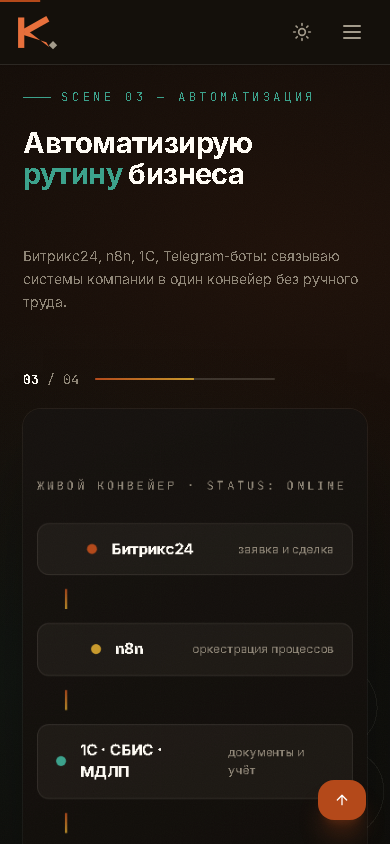
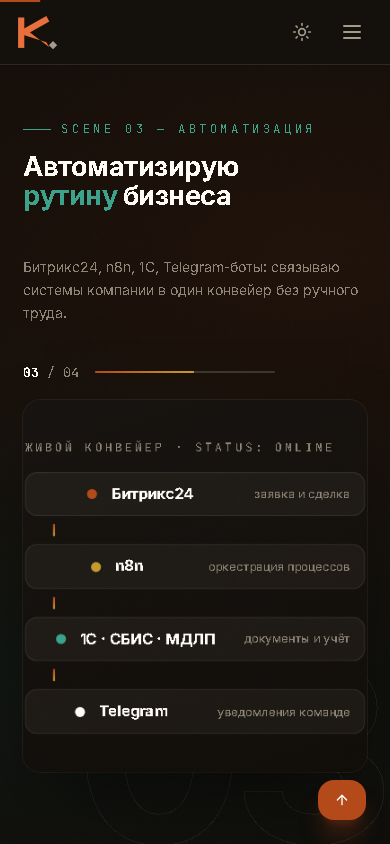
fix: dark-theme contrast, particle quiet zone, mobile stage centering

diff --git a/src/components/sections/ScrollScenes.vue b/src/components/sections/ScrollScenes.vue
@@ -294,6 +294,8 @@ tg.<span class="c-fn">notify</span>(<span class="c-str">`✔ договор по
   position: sticky;
   top: 0;
   height: 100vh;
+  /* На мобильных 100vh больше видимой области (панели браузера) — dvh точнее */
+  height: 100dvh;
   overflow: hidden;
   background:
     radial-gradient(1200px 700px at 78% 30%, rgba(180, 73, 26, 0.1), transparent 60%),
@@ -610,17 +612,56 @@ tg.<span class="c-fn">notify</span>(<span class="c-str">`✔ договор по
   }
   .stage {
     grid-template-columns: 1fr;
-    grid-template-rows: auto 1fr;
-    gap: 20px;
-    padding: 88px 6vw 40px;
-    align-content: start;
+    /* Две авто-строки, весь блок центрирован по вертикали — без «прилипло
+       кверху, снизу обрезало»; высота stage = 100dvh (см. базовый .stage) */
+    grid-template-rows: auto auto;
+    gap: 18px;
+    padding: 72px 6vw 24px;
+    align-content: center;
+  }
+  .kicker {
+    margin-bottom: 14px;
   }
   .headline {
-    font-size: clamp(26px, 7.4vw, 34px);
+    font-size: clamp(24px, 6.8vw, 32px);
   }
   .sub {
     font-size: 14px;
-    height: 6.4em;
+    height: 6em;
+    margin-top: 12px;
+  }
+  .progress {
+    margin-top: 24px;
+  }
+  .frames {
+    height: min(44vh, 420px);
+    height: min(44dvh, 420px);
+  }
+  /* Карточки внутри кадра компактнее — 4 узла/стата должны целиком
+     помещаться в кадр даже на низком вьюпорте (~700px высотой) */
+  .flow-card {
+    padding: 22px;
+    gap: 8px;
+  }
+  .flow-title {
+    margin-bottom: 8px;
+  }
+  .node {
+    padding: 10px 14px;
+  }
+  .wire {
+    height: 12px;
+  }
+  .stats-card {
+    padding: 24px;
+    gap: 8px;
+  }
+  .stat {
+    padding: 12px 0;
+  }
+  .code-card {
+    padding: 18px;
+    font-size: 11.5px;
   }
   .bignum {
     font-size: 30vh;

diff --git a/src/components/common/ParticleField.vue b/src/components/common/ParticleField.vue
@@ -125,10 +125,10 @@ async function init(canvasEl: HTMLCanvasElement) {
   geometry.setAttribute('color', new THREE.BufferAttribute(colors, 3))
 
   const material: PointsMaterial = new THREE.PointsMaterial({
-    size: isMobile ? 0.06 : 0.085,
+    size: isMobile ? 0.05 : 0.07,
     vertexColors: true,
     transparent: true,
-    opacity: 0.85,
+    opacity: 0.45,
     depthWrite: false,
     blending: THREE.AdditiveBlending,
     sizeAttenuation: true,
@@ -257,7 +257,7 @@ onBeforeUnmount(() => {
 <template>
   <canvas
     ref="canvas"
-    class="pointer-events-none absolute inset-0 h-full w-full transition-opacity duration-700"
+    class="pointer-events-none absolute inset-0 h-full w-full transition-opacity duration-700 [-webkit-mask-image:radial-gradient(ellipse_82%_74%_at_32%_55%,transparent_42%,black_88%)] [mask-image:radial-gradient(ellipse_82%_74%_at_32%_55%,transparent_42%,black_88%)]"
     :class="isActive ? 'opacity-100' : 'opacity-0'"
     aria-hidden="true"
   />

diff --git a/src/components/sections/Hero.vue b/src/components/sections/Hero.vue
@@ -211,7 +211,7 @@ function scrollToContact() {
       >
         <div class="max-w-[420px]">
           <p
-            class="animate-fade-in-up text-sm leading-relaxed text-ink-100 [animation-delay:750ms] dark:text-ink-400 sm:text-base"
+            class="animate-fade-in-up text-sm leading-relaxed text-ink-100 [animation-delay:750ms] dark:text-ink-300 sm:text-base"
           >
             {{ person.tagline }}
           </p>

diff --git a/src/components/common/SectionTitle.vue b/src/components/common/SectionTitle.vue
@@ -32,7 +32,7 @@ const { target } = useScrollAnimation<HTMLDivElement>()
     </h2>
     <p
       v-if="subtitle"
-      class="mx-auto mt-4 max-w-2xl text-base text-ink-100 dark:text-ink-400 sm:text-lg"
+      class="mx-auto mt-4 max-w-2xl text-base text-ink-100 dark:text-ink-300 sm:text-lg"
     >
       {{ subtitle }}
     </p>

diff --git a/tailwind.config.js b/tailwind.config.js
@@ -22,6 +22,7 @@ export default {
         ink: {
           50: '#6E6656',
           100: '#6E6656',
+          300: '#C4B9A4',
           400: '#8F8677',
           500: '#6E6656',
           700: '#4A443B',

diff --git a/_verify_scroll_scenes.py b/_verify_scroll_scenes.py
@@ -98,6 +98,26 @@ def check_active_frame(page, tag: str) -> None:
         FAILURES.append(f"{tag}: {st}")
 
 
+def check_stage_fits(page, tag: str) -> None:
+    """Мобильный багфикс: зафиксированный stage целиком во вьюпорте (без обрезки снизу)."""
+    st = page.evaluate(
+        """() => {
+            const stage = document.querySelector('.stories .stage');
+            const frames = document.querySelector('.stories .frames');
+            const sr = stage.getBoundingClientRect();
+            const fr = frames.getBoundingClientRect();
+            return { vh: window.innerHeight, stageH: Math.round(sr.height),
+                     stageTop: Math.round(sr.top), framesBottom: Math.round(fr.bottom),
+                     dvh: CSS.supports('height: 100dvh') };
+        }"""
+    )
+    ok = st["stageH"] <= st["vh"] and st["framesBottom"] <= st["vh"]
+    status = "OK " if ok else "FAIL"
+    print(f"  [{status}] {tag} stage-fits: {st}")
+    if not ok:
+        FAILURES.append(f"{tag} stage-fits: {st}")
+
+
 def run(page, prefix: str) -> None:
     geo = stories_geo(page)
     print(f"{prefix} stories:", geo)
@@ -106,6 +126,7 @@ def run(page, prefix: str) -> None:
         scroll_to_scene(page, geo, prog)
         page.screenshot(path=str(SHOTS / f"{prefix}-{name}.png"))
         check_active_frame(page, f"{prefix}-{name}")
+        check_stage_fits(page, f"{prefix}-{name}")
     # --- реверс вверх: сцены 3→2→1 ---
     for name, prog in [("scene3-back", 0.55), ("scene2-back", 0.30), ("scene1-back", 0.04)]:
         scroll_to_scene(page, geo, prog)
@@ -133,16 +154,36 @@ def main() -> int:
         print("dev-сервер поднят")
         with sync_playwright() as p:
             browser = p.chromium.launch()
+            # --- десктоп: hero в обеих темах (контраст текста + частицы) ---
             page = browser.new_page(viewport={"width": 1440, "height": 900})
             page.goto(BASE, wait_until="networkidle")
-            page.wait_for_timeout(2500)
+            page.evaluate("document.documentElement.classList.add('dark')")
+            page.wait_for_timeout(5000)  # requestIdleCallback(2.5s) + чанк three + частицы
+            page.screenshot(path=str(SHOTS / "d-hero-dark.png"))
+            # крупный план зоны основного абзаца (левый нижний блок hero)
+            page.screenshot(
+                path=str(SHOTS / "d-hero-dark-text.png"),
+                clip={"x": 0, "y": 520, "width": 760, "height": 380},
+            )
+            page.evaluate("document.documentElement.classList.remove('dark')")
+            page.wait_for_timeout(1200)
+            page.screenshot(path=str(SHOTS / "d-hero-light.png"))
+            page.evaluate("document.documentElement.classList.add('dark')")
+            page.wait_for_timeout(800)
             run(page, "d")
             page.close()
+            # --- мобильная 390x844 ---
             mob = browser.new_page(viewport={"width": 390, "height": 844})
             mob.goto(BASE, wait_until="networkidle")
             mob.wait_for_timeout(2500)
             run(mob, "m")
             mob.close()
+            # --- низкий вьюпорт 390x700 (имитация панелей моб. браузера) ---
+            low = browser.new_page(viewport={"width": 390, "height": 700})
+            low.goto(BASE, wait_until="networkidle")
+            low.wait_for_timeout(2500)
+            run(low, "m700")
+            low.close()
             browser.close()
         if FAILURES:
             print("\nИНВАРИАНТЫ НАРУШЕНЫ:")
